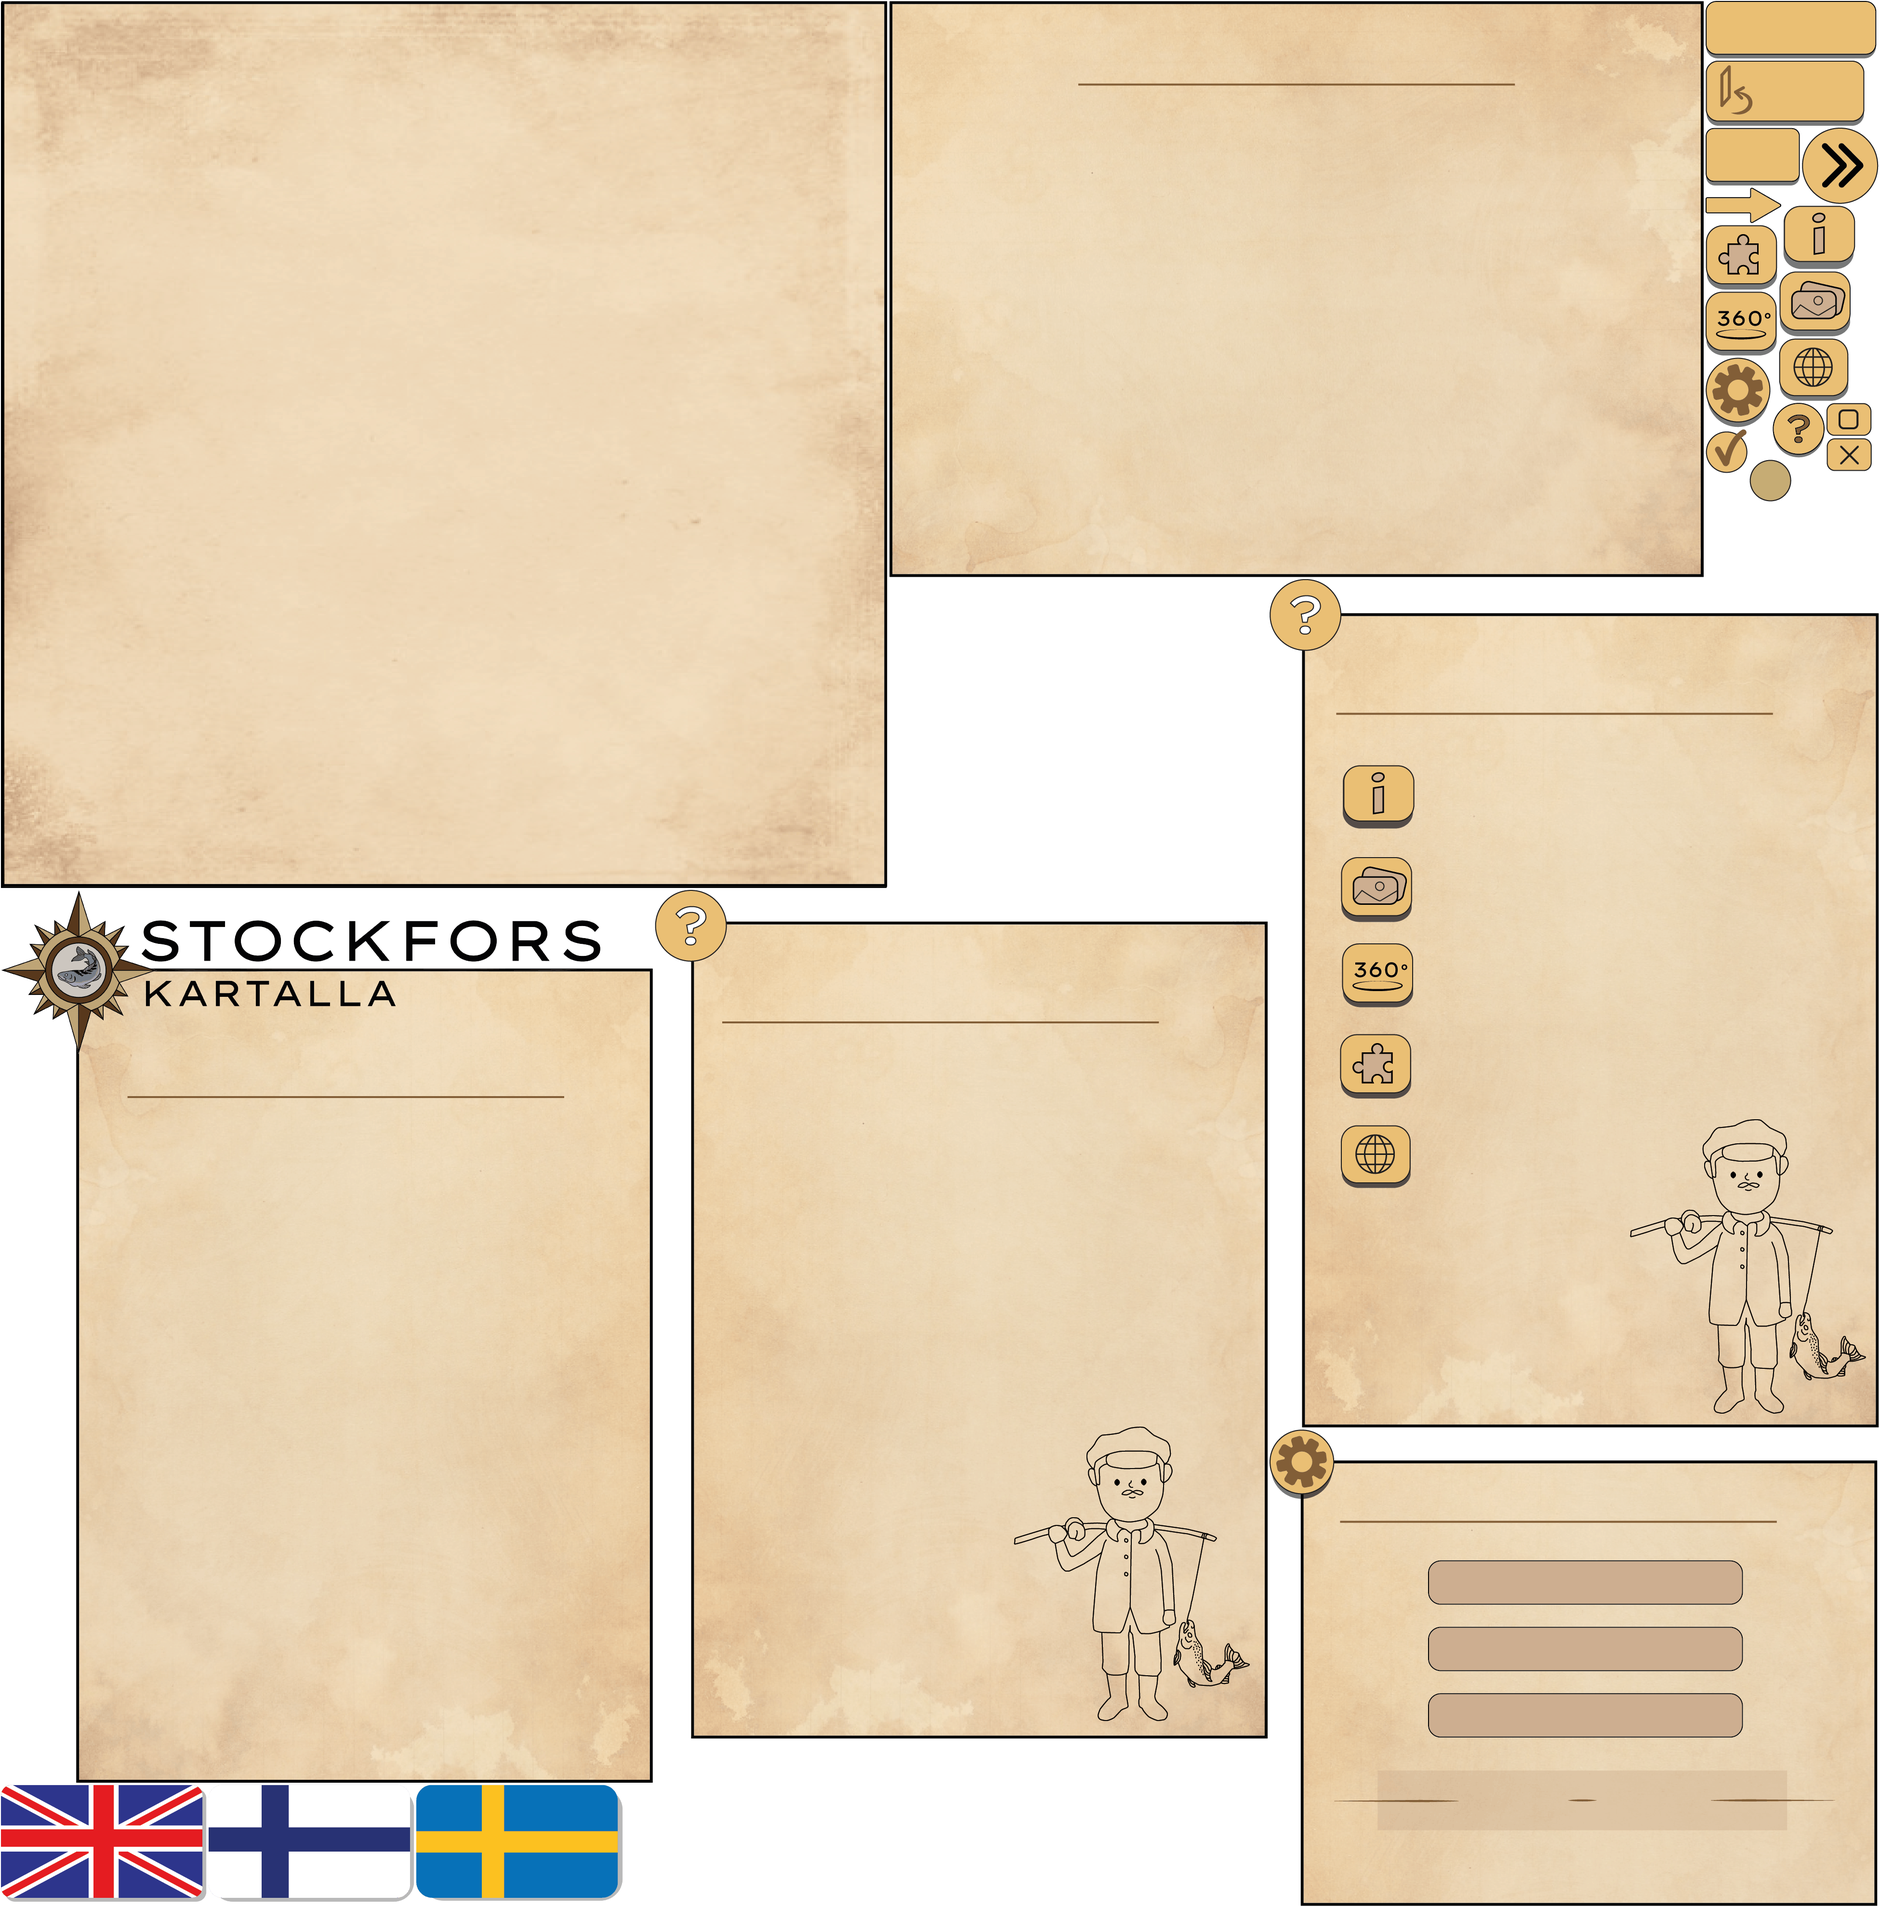
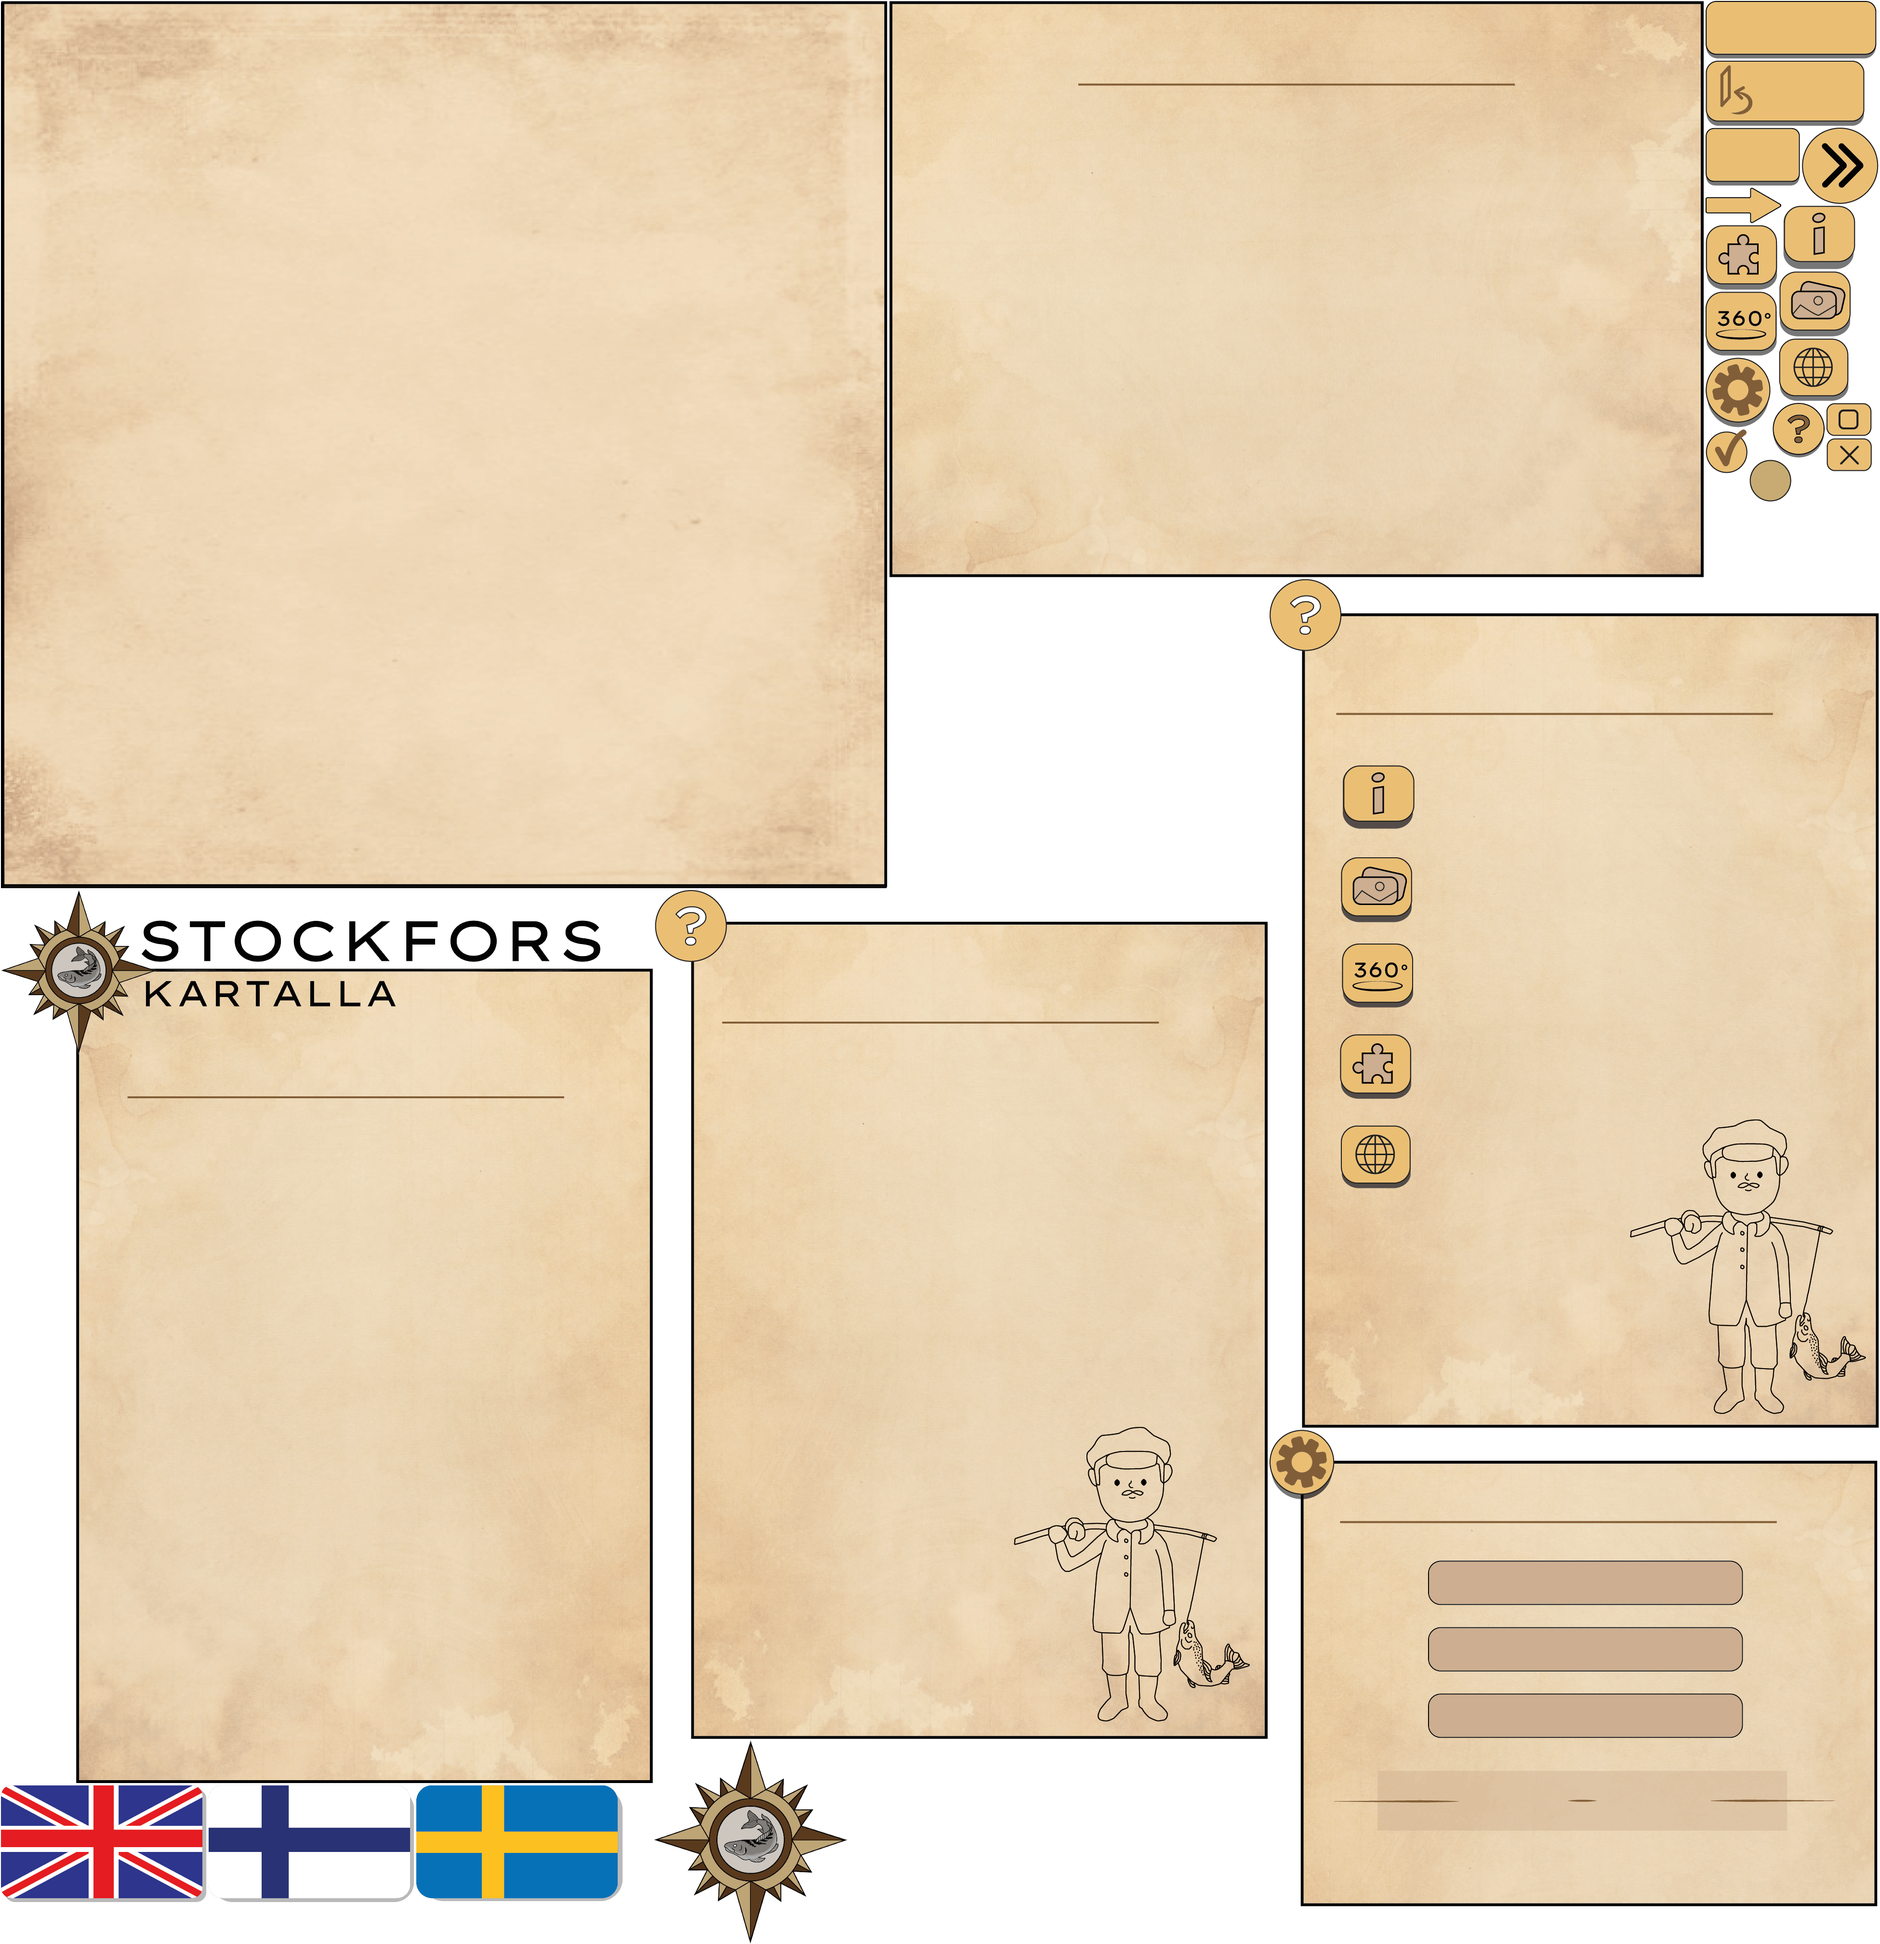
Historianappi nurkkaan

diff --git a/StockforsJS/OpeningScene.js b/StockforsJS/OpeningScene.js
@@ -122,37 +122,8 @@ class OpeningScene extends Phaser.Scene {
 
         this.ohjeContainer.setVisible(false);
 
-        //this.DecodeAudio();
-
-        //createButton(this.cameras.main.centerX + this.cameras.main.width * .4, this.cameras.main.centerY - this.cameras.main.height * .4, 'OptionsMenuScene', true, 0, 0.56, this, 'MenuAtlas', 'UI Buttons/Asetukset');
-
-        /*this.input.keyboard.on('keydown', function (event) {
-            let saveFile = loadGame();
-
-            //currentMap = this.scene.scene.get(saveFile.map);
-
-            if (saveFile.map != null) {
-                this.scene.scene.start(saveFile.map, saveFile.posX, saveFile.posY);
-                console.log('Loaded game from save file.');
-            }
-            else
-            {
-                this.scene.scene.start('StockforsScene');
-                console.log('Started new game.');
-            }
-        });*/
-
 
     }
-
-    /*DecodeAudio(){
-        this.sound.decodeAudio("Footstep1", "Assets/sounds/Footstep1.ogg");
-        this.sound.decodeAudio("Footstep2", "Assets/sounds/Footstep2.ogg");
-        this.sound.decodeAudio("Footstep3", "Assets/sounds/Footstep3.ogg");
-        this.sound.decodeAudio("Footstep4", "Assets/sounds/Footstep4.ogg");
-        this.sound.decodeAudio("Footstep5", "Assets/sounds/Footstep5.ogg");
-        this.sound.decodeAudio("Footstep6", "Assets/sounds/Footstep6.ogg");
-    }*/
 
     CreateLanguageMenu() {
         this.languagePohja = this.add.sprite(0, -83, 'MenuAtlas', 'UI Pohjat/Kielivalikko');
@@ -356,7 +327,7 @@ class OpeningScene extends Phaser.Scene {
     }
 
     CreateMenuContainer(elementsToAdd = []) {
-        let container = this.add.container(this.cameras.main.centerX, this.cameras.main.centerY + 20, elementsToAdd);
+        let container = this.add.container(this.cameras.main.centerX, this.cameras.main.centerY + 30, elementsToAdd);
 
         container.iterate(function (element) {
 

diff --git a/StockforsJS/config.js b/StockforsJS/config.js
@@ -45,7 +45,7 @@ var config = {
 
 
 
-    scene: [BootScene, PreloadScene, OpeningScene, StockforsScene, BuildingScene, KirkkoScene, PatruunantaloScene, PakkausmuseoScene, OptionsMenuScene, MuistiPeliScene, PalapeliScene, UI, KaarihalliScene, TallirakennusScene, SceneLoader]
+    scene: [BootScene, PreloadScene, OpeningScene, StockforsScene, BuildingScene, KirkkoScene, PatruunantaloScene, PakkausmuseoScene, OptionsMenuScene, MuistiPeliScene, PalapeliScene, UI, KaarihalliScene, TallirakennusScene, SceneLoader, HistoryScene]
 
 
 };
@@ -55,6 +55,7 @@ var pointerOverUI;
 
 //Put this here so I can easily reference it in the options menu scene and muistipeliscene
 var optionsButton;
+var historyButton;
 
 //Whether if player is ready to move
 var readyToMove = false;
@@ -169,7 +170,7 @@ function createButton(posX, posY, scene, runOnTop, scrollFactor, scale, context,
 
     button.setScrollFactor(scrollFactor).setDepth(9999).setScale(scale);
 
-    var pressed = false;
+    button.pressed = false;
 
     button.on('pointerover', function () {
 
@@ -183,7 +184,7 @@ function createButton(posX, posY, scene, runOnTop, scrollFactor, scale, context,
     button.on('pointerout', function () {
 
         //buttonBG.clearTint();
-        pressed = false;
+        button.pressed = false;
 
         //Enable clicking movement when cursor goes away from the UI-button
         pointerOverUI = false;
@@ -192,7 +193,7 @@ function createButton(posX, posY, scene, runOnTop, scrollFactor, scale, context,
 
     button.on('pointerdown', function () {
 
-        pressed = true;
+        button.pressed = true;
 
 
 
@@ -201,7 +202,7 @@ function createButton(posX, posY, scene, runOnTop, scrollFactor, scale, context,
     button.on('pointerup', function (event) {
 
 
-        if (pressed) {
+        if (button.pressed) {
             readyToMove = false;
 
             //Only affects timer events, have to be setup separately for physics

diff --git a/StockforsJS/UI.js b/StockforsJS/UI.js
@@ -7,7 +7,7 @@ class UI extends Phaser.Scene {
     create() {
         optionsButton = createButton(this.cameras.main.centerX + this.cameras.main.width * .475, this.cameras.main.centerY - this.cameras.main.height * .445, 'OptionsMenuScene', true, 0, 0.56, this, 'MenuAtlas', 'UI Buttons/Asetukset');
 
-        
+        historyButton = createButton(this.cameras.main.centerX - this.cameras.main.width * .470, this.cameras.main.centerY - this.cameras.main.height * .440, 'HistoryScene', true, 0, 1, this, 'MenuAtlas', 'UI Buttons/Logo').setScale(0.3);
         //this.add.sprite(400, 400, 'MenuAtlas','UI Buttons/Asetukset');
 
     }

diff --git a/game.html b/game.html
@@ -33,7 +33,8 @@
     <script type="text/javascript" src="stockforsJS/PalapeliScene.js"></script>
     <script type="text/javascript" src="stockforsJS/UI.js"></script>
     <script type="text/javascript" src="stockforsJS/SceneLoader.js"></script>
-    <script type="text/javascript" src="dist/phaser-ui-tools.js"></script>
+    <script type="text/javascript" src="stockforsJS/HistoryScene.js"></script>
+    <!-- <script type="text/javascript" src="dist/phaser-ui-tools.js"></script>-->
     <script type="text/javascript" src="StockforsJS/config.js"></script>
 
     <script>

diff --git a/StockforsJS/HistoryScene.js b/StockforsJS/HistoryScene.js
@@ -1,0 +1,16 @@
+class HistoryScene extends Phaser.Scene{
+    constructor(){
+        super('HistoryScene');
+
+
+    }
+
+    create()
+    {
+        
+        this.background = this.add.image(0, 0, 'MenuAtlas', 'UI Pohjat/Infokorttipohja').setScale(1.2, 1.6);
+
+
+        this.container = this.add.container(this.cameras.main.centerX, this.cameras.main.centerY - 20, [this.background]);
+    }
+}
